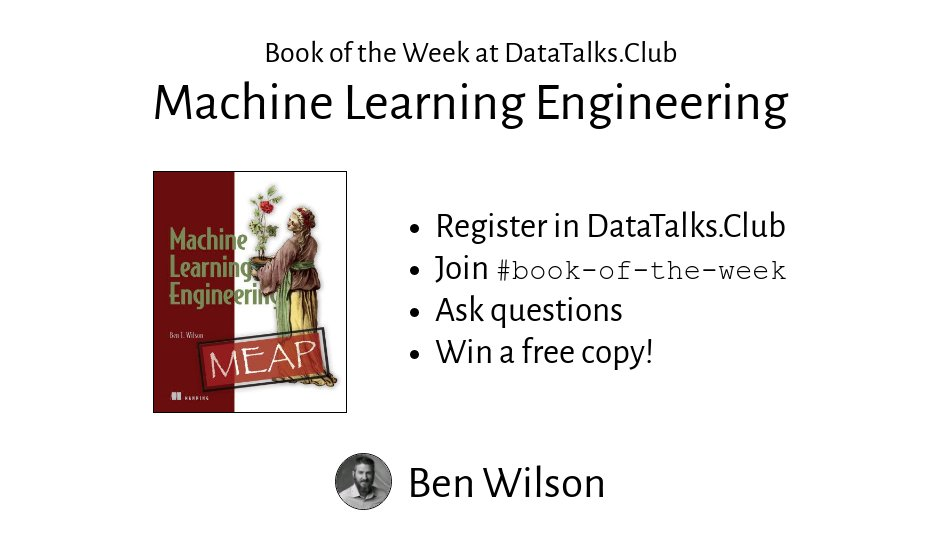
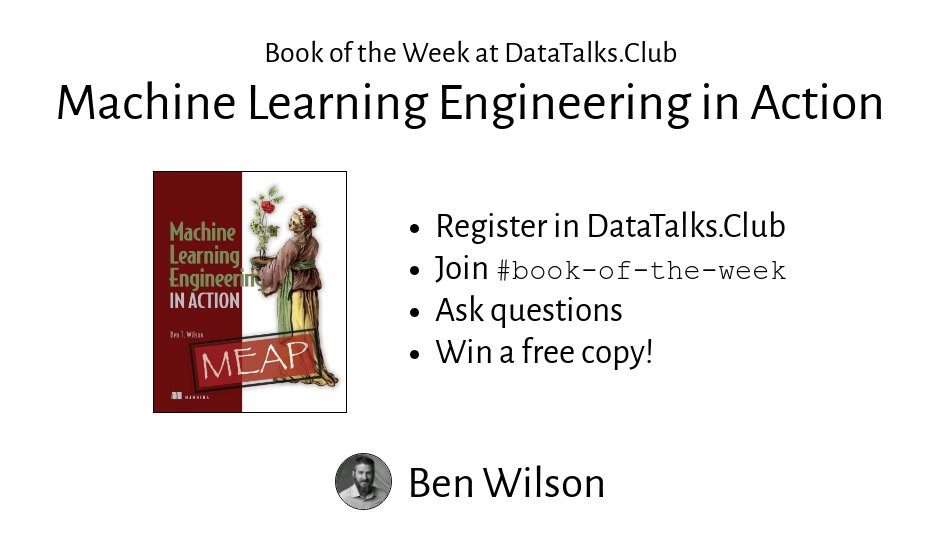
ml engineering in action book

Changed region(s): [[0.0617, 0.1545, 0.9564, 0.2473], [0.1543, 0.3091, 0.3702, 0.7418]]

diff --git a/_books/20210301-ml-engineering.md b/_books/20210301-ml-engineering.md
@@ -1,6 +1,6 @@
 ---
-title: "Machine Learning Engineering"
-description: "Book of the Week. Machine Learning Engineering by Ben Wilson"
+title: "Machine Learning Engineering in Action"
+description: "Book of the Week. Machine Learning Engineering in Action by Ben Wilson"
 cover: "images/books/20210301-ml-engineering/cover.jpg"
 image: "images/books/20210301-ml-engineering/preview.jpg"
 start: 2021-03-01 00:00:00
@@ -8,12 +8,12 @@ end: 2021-03-05 22:59:59
 authors: [benwilson]
 links: 
   - text: Book's page on Manning
-    link: https://www.manning.com/books/machine-learning-engineering
+    link: https://www.manning.com/books/machine-learning-engineering-in-action
   - text: Book's GitHub repository
     link: https://github.com/BenWilson2/ML-Engineering
 ---
 
-Machine Learning Engineering is a roadmap to delivering successful machine learning projects.
+Machine Learning Engineering in Action is a roadmap to delivering successful machine learning projects.
 It teaches you to adopt an efficient, sustainable, and goal-driven approach that author
 Ben Wilson has developed over a decade of data science experience. Every method in this book
 has been used to solve a breakdown in a real-world project, and is illustrated with production-ready
